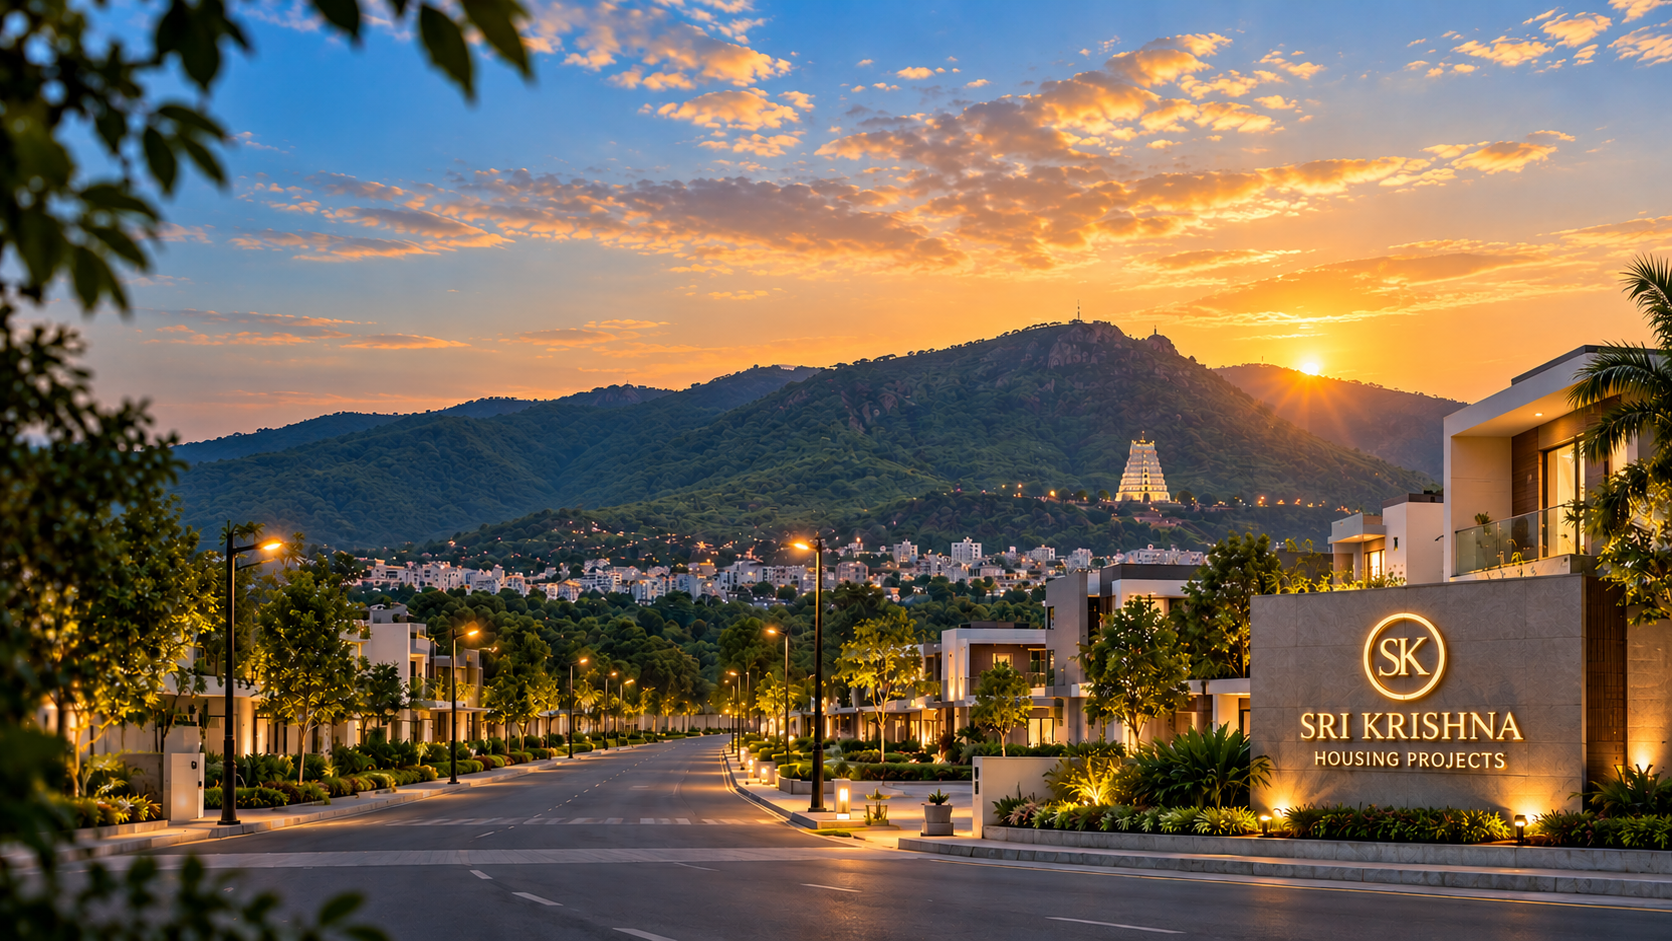
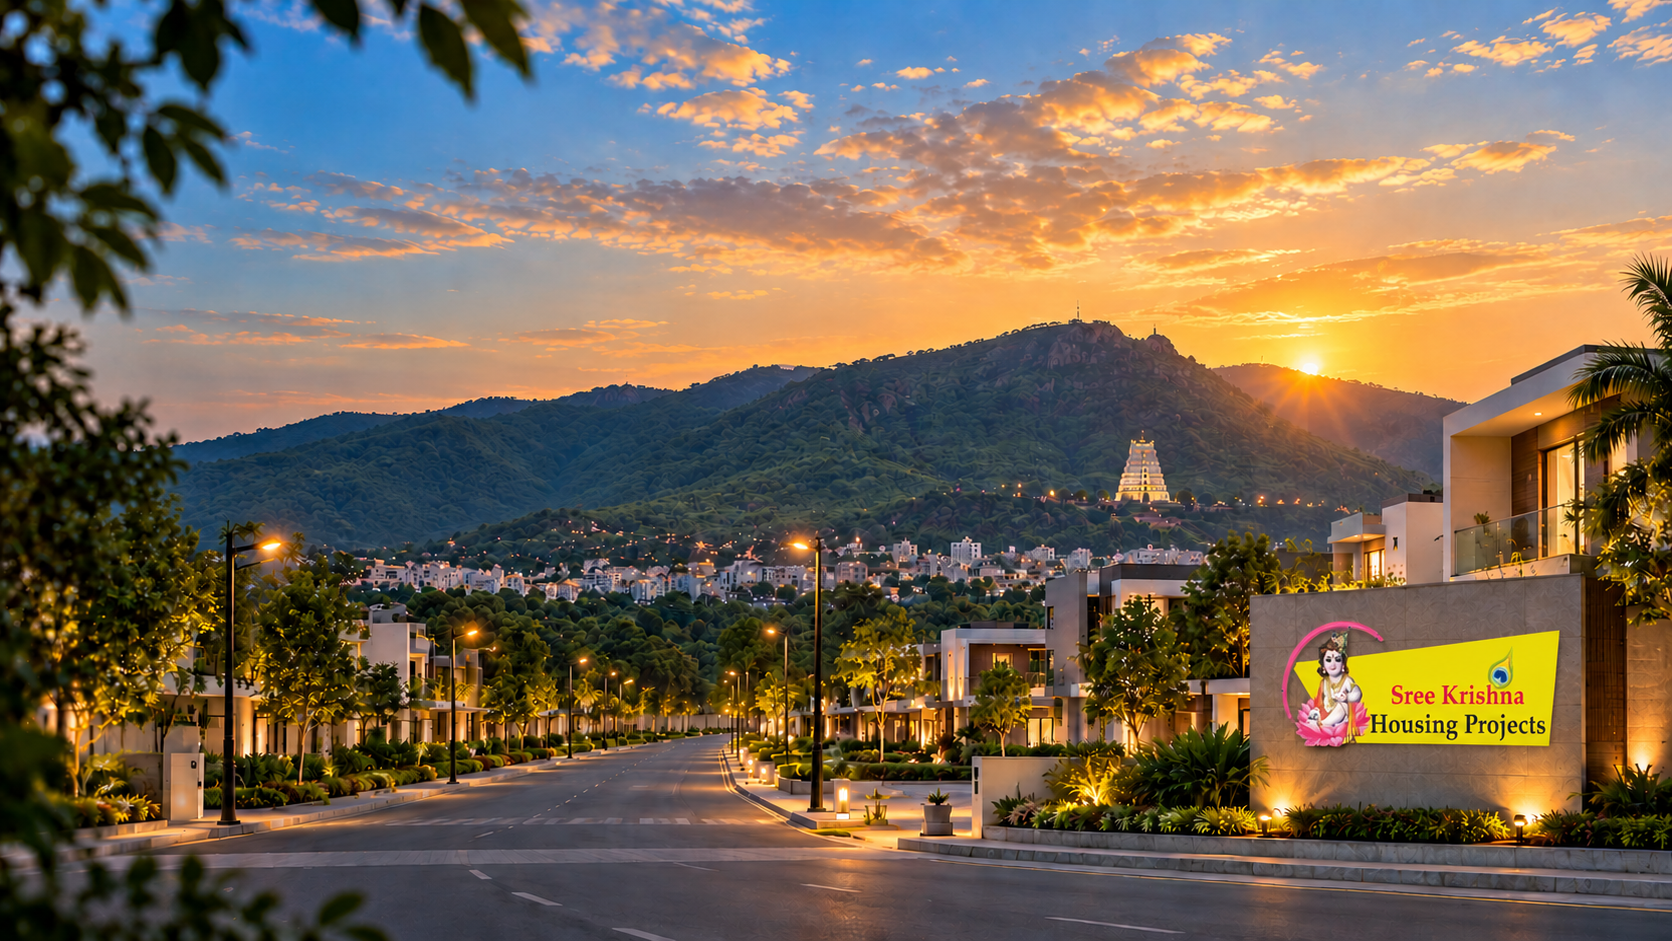
css

diff --git a/sree-krishna-housing-projects-github/app/page.tsx b/sree-krishna-housing-projects-github/app/page.tsx
@@ -5,16 +5,19 @@ const properties = [
     name: "Premium Open Plots",
     location: "Tirupati",
     type: "Open Plots",
+    image: "/property1.png",
   },
   {
     name: "Krishna Enclave",
     location: "Tirupati",
     type: "Residential",
+    image: "/property2.png",
   },
   {
     name: "Modern Villas",
     location: "Tirupati",
     type: "Villas",
+    image: "/property3.png",
   },
 ];
 
@@ -37,6 +40,7 @@ export default function Home() {
           <a href="/">Home</a>
           <a href="/properties">Properties</a>
           <a href="#services">Services</a>
+          <a href="#testimonials">Testimonials</a>
           <a href="#contact">Contact</a>
         </nav>
 
@@ -48,13 +52,6 @@ export default function Home() {
       {/* ================= HERO ================= */}
 
       <section className="hero">
-        {/* HERO BACKGROUND IMAGE */}
-        <div className="heroBackground"></div>
-
-        {/* DARK OVERLAY */}
-        <div className="heroShade"></div>
-
-        {/* HERO CONTENT */}
         <div className="heroOverlay">
           <p className="eyebrow">
             TIRUPATI • REAL ESTATE • CONSTRUCTION
@@ -139,16 +136,28 @@ export default function Home() {
         </div>
 
         <div className="grid">
-          {properties.map((property, index) => (
+          {properties.map((property) => (
             <article className="card" key={property.name}>
-              <div className={"propertyImage img" + index}></div>
+
+              {/* PROPERTY IMAGE */}
+
+              <div className="propertyImage">
+                <img
+                  src={property.image}
+                  alt={property.name}
+                />
+              </div>
 
               <div className="cardBody">
-                <span className="tag">{property.type}</span>
+                <span className="tag">
+                  {property.type}
+                </span>
 
                 <h3>{property.name}</h3>
 
-                <p>📍 {property.location}</p>
+                <p>
+                  📍 {property.location}
+                </p>
 
                 <a href="/properties">
                   View Details →
@@ -187,6 +196,60 @@ export default function Home() {
         </div>
       </section>
 
+      {/* ================= TESTIMONIALS ================= */}
+
+      <section
+        id="testimonials"
+        className="section muted"
+      >
+        <p className="eyebrow dark">
+          TESTIMONIALS
+        </p>
+
+        <h2>What Our Customers Say</h2>
+
+        <div className="services">
+          <div className="service testimonialCard">
+            <div className="stars">
+              ★★★★★
+            </div>
+
+            <p>
+              Excellent support and transparent guidance
+              throughout the property selection process.
+            </p>
+
+            <b>— Happy Customer</b>
+          </div>
+
+          <div className="service testimonialCard">
+            <div className="stars">
+              ★★★★★
+            </div>
+
+            <p>
+              The team helped us find the right property
+              and explained everything clearly.
+            </p>
+
+            <b>— Property Buyer</b>
+          </div>
+
+          <div className="service testimonialCard">
+            <div className="stars">
+              ★★★★★
+            </div>
+
+            <p>
+              Professional service and great support
+              from beginning to end.
+            </p>
+
+            <b>— Investor</b>
+          </div>
+        </div>
+      </section>
+
       {/* ================= CONTACT ================= */}
 
       <section
@@ -195,7 +258,7 @@ export default function Home() {
       >
         <div className="contactGrid">
 
-          {/* ================= CONTACT INFORMATION ================= */}
+          {/* CONTACT INFORMATION */}
 
           <div className="contactInfo">
             <p className="eyebrow dark">
@@ -259,7 +322,7 @@ export default function Home() {
               </div>
             </a>
 
-            {/* ================= OFFICE LOCATION ================= */}
+            {/* OFFICE LOCATION */}
 
             <div className="officeLocation">
               <h2>Office Location</h2>
@@ -289,7 +352,7 @@ export default function Home() {
             </div>
           </div>
 
-          {/* ================= CONTACT FORM ================= */}
+          {/* CONTACT FORM */}
 
           <div className="contactForm">
             <p className="eyebrow dark">

diff --git a/sree-krishna-housing-projects-github/app/globals.css b/sree-krishna-housing-projects-github/app/globals.css
@@ -2266,3 +2266,27 @@ footer p {
   }
 
 }
+/* =========================================
+   HOME FEATURED PROPERTY IMAGES ONLY
+========================================= */
+
+.propertyImage {
+  width: 100%;
+  height: 230px;
+  display: block;
+  background-size: cover;
+  background-position: center;
+  background-repeat: no-repeat;
+}
+
+.img0 {
+  background-image: url("/property1.png");
+}
+
+.img1 {
+  background-image: url("/property2.png");
+}
+
+.img2 {
+  background-image: url("/property3.png");
+}
